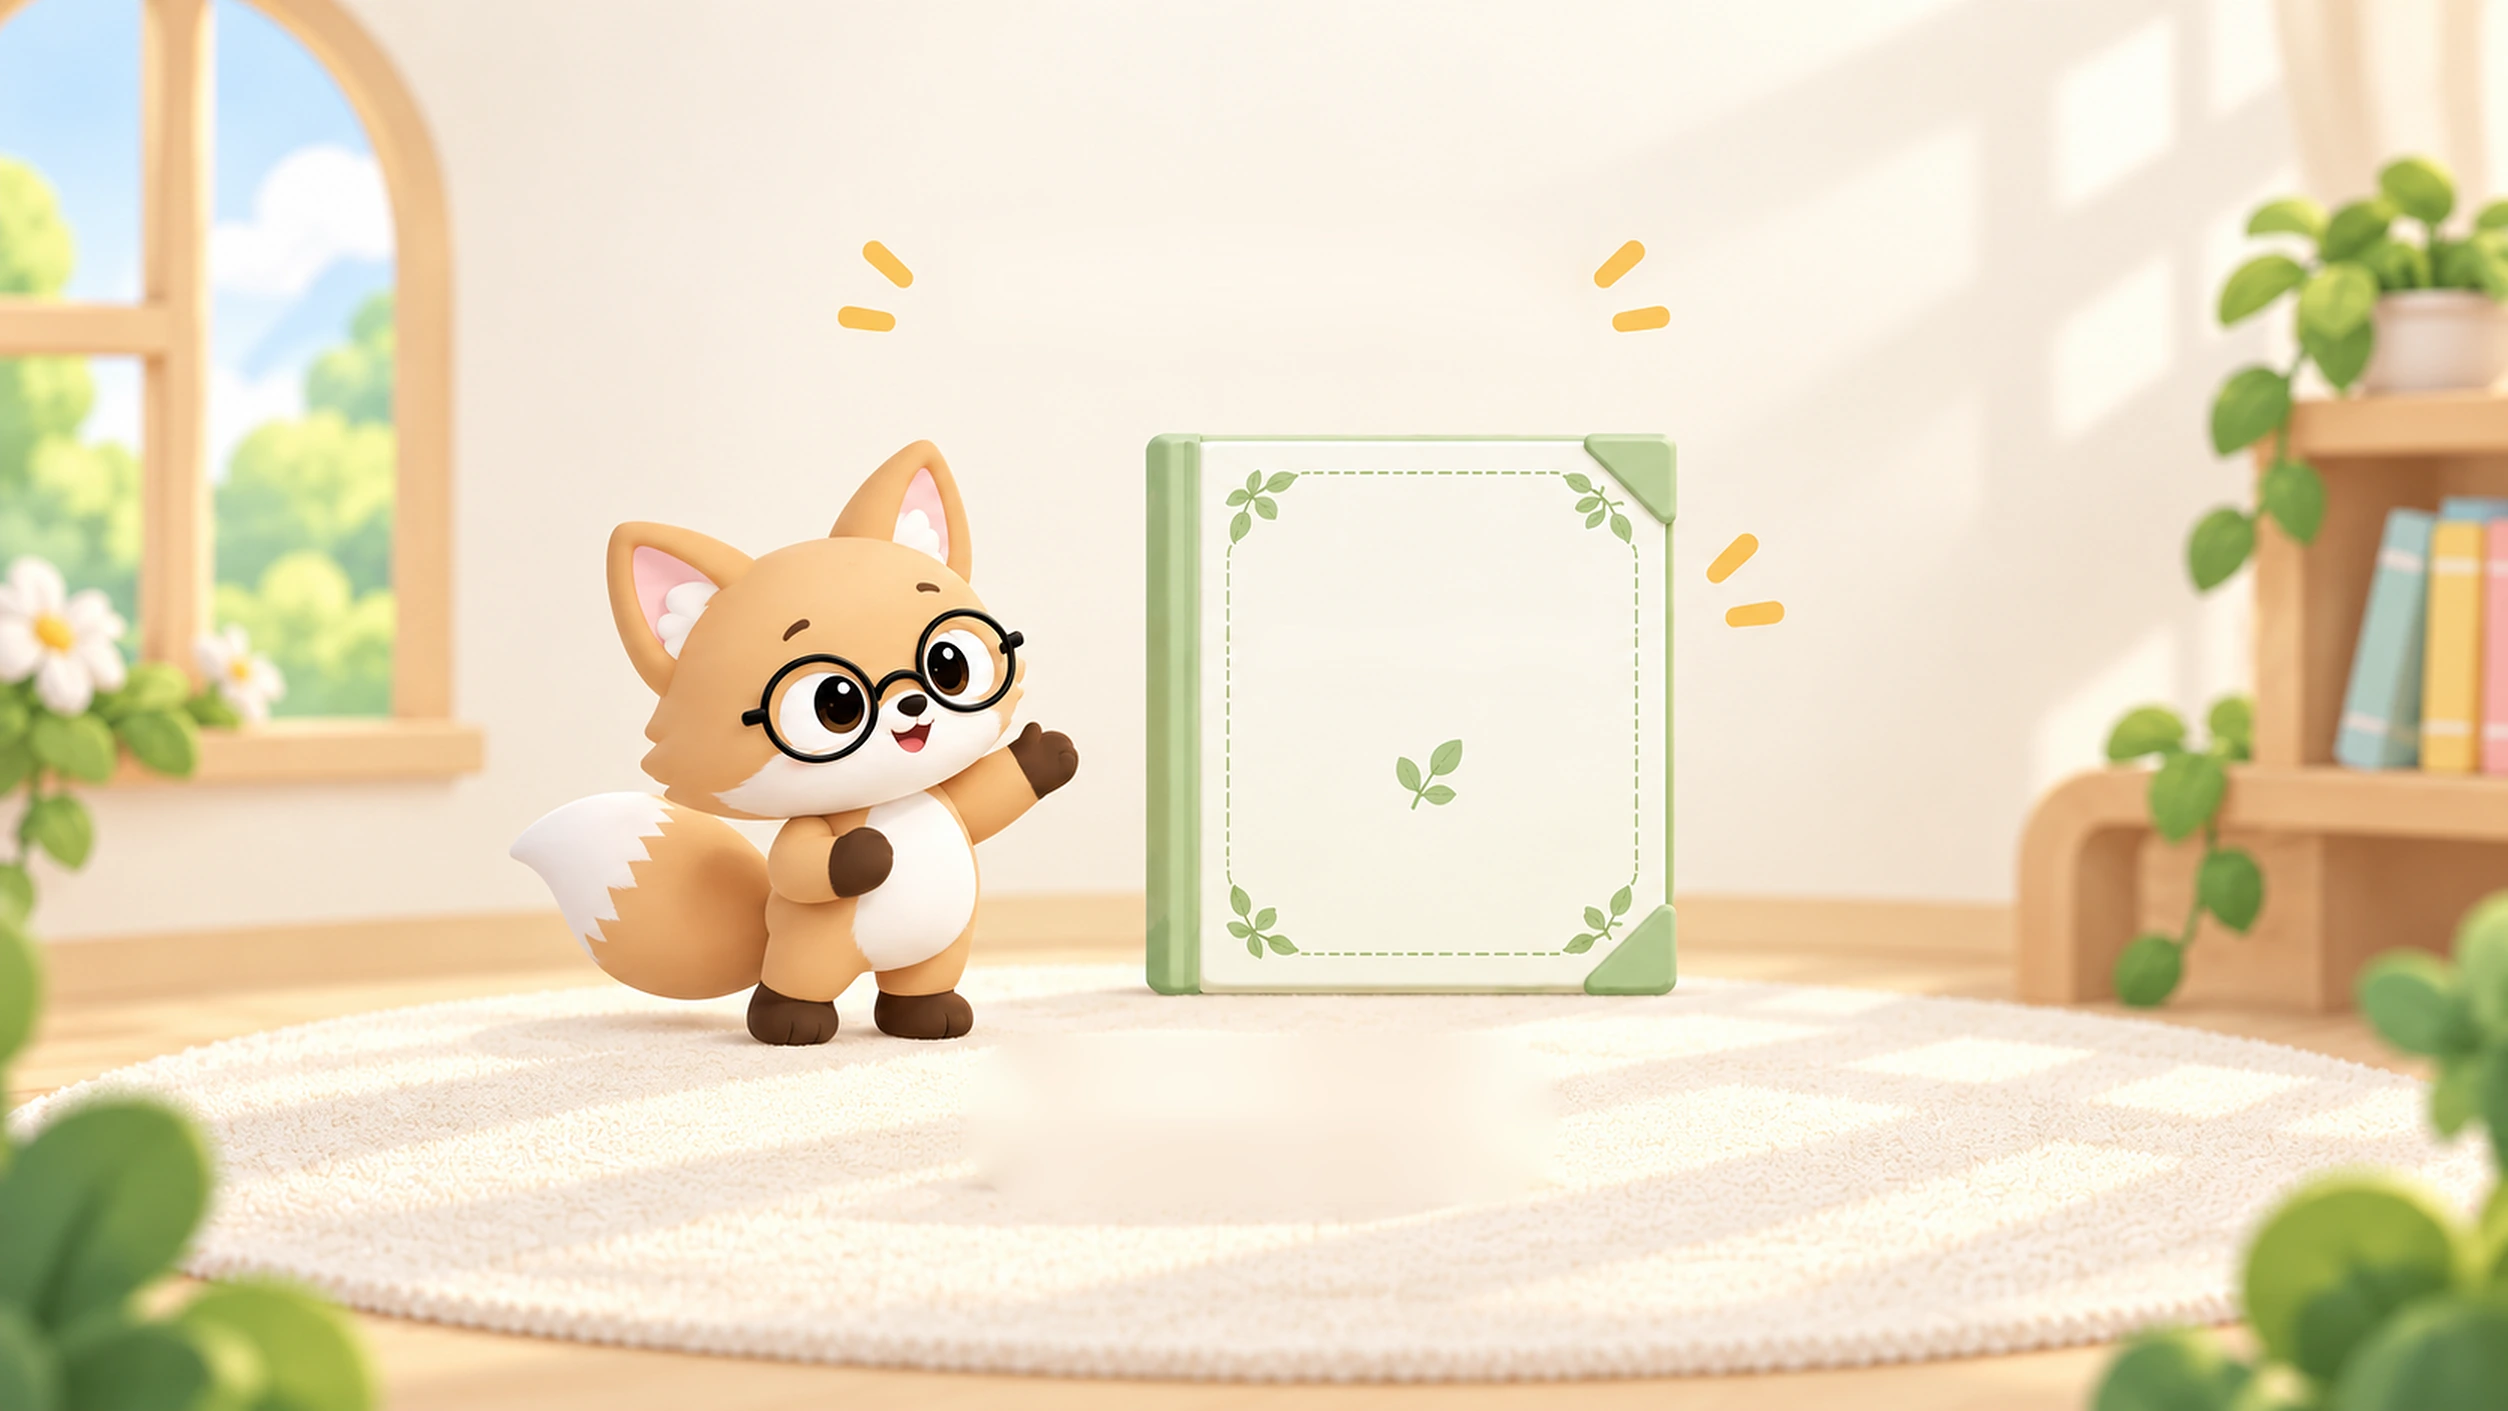
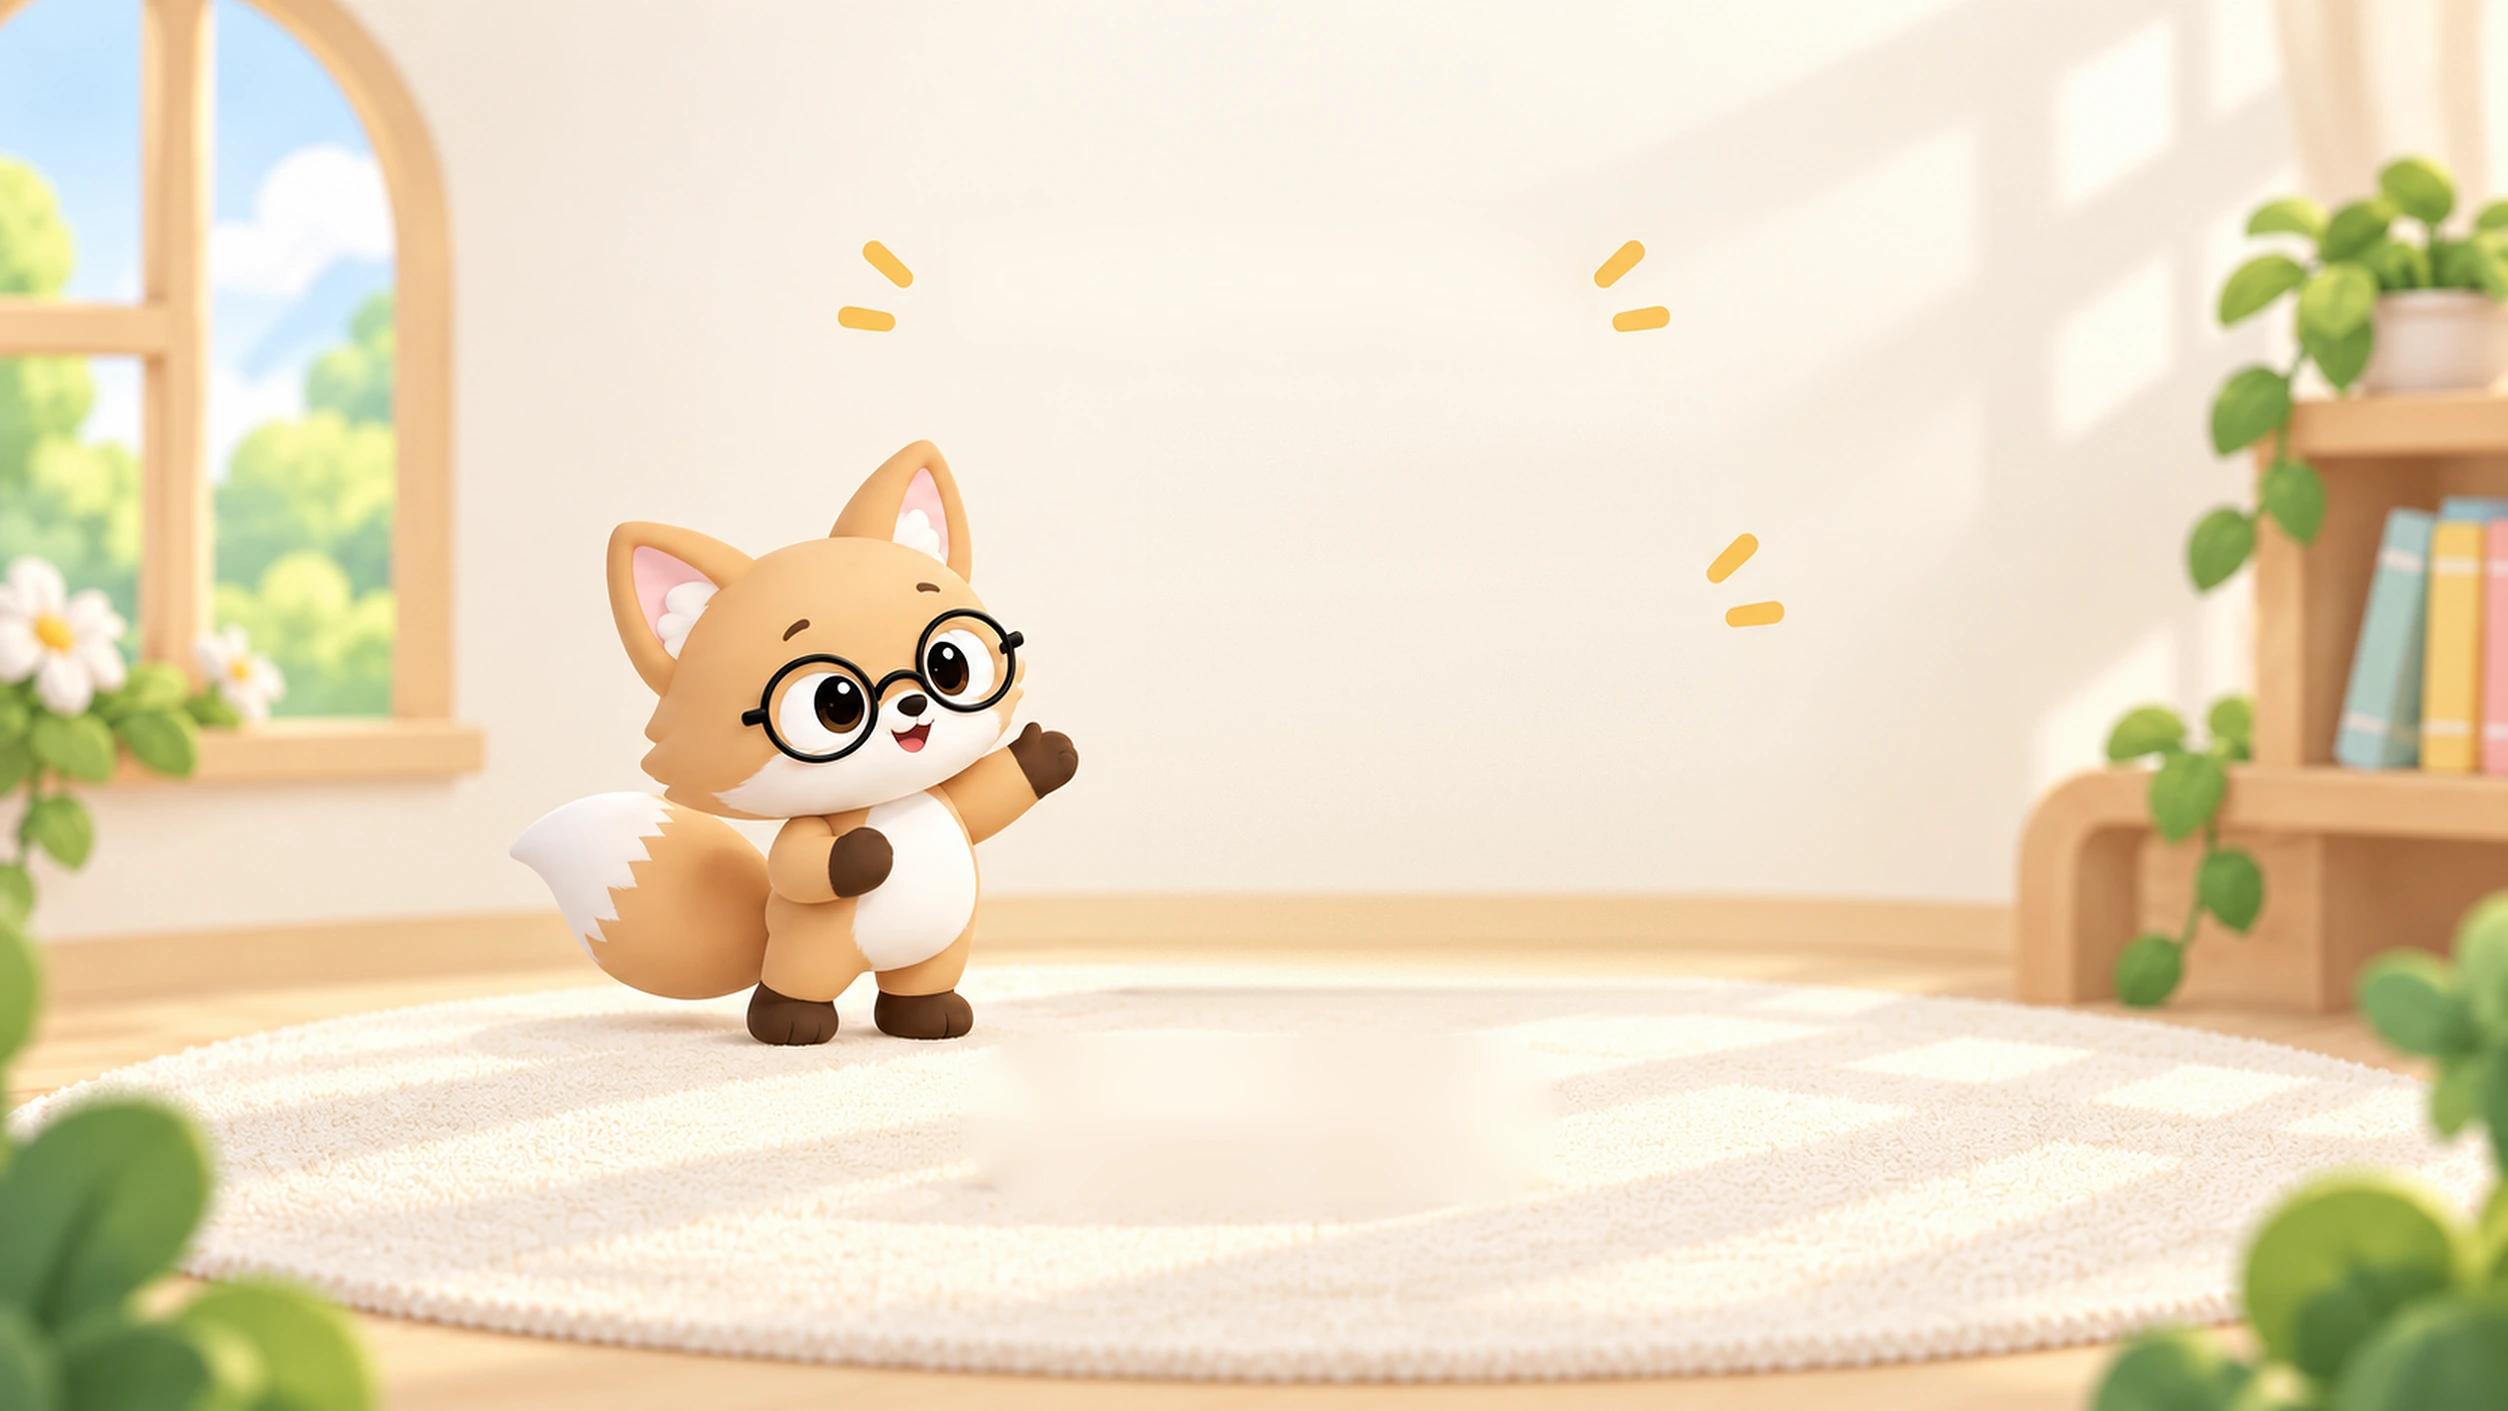
Show the book in its cover color on the study intro
Pick this round's book color when the intro first appears, draw that library book on the intro, and reuse the same color when the book draft starts so the shelved book matches.

Changed region(s): [[0.4354, 0.2807, 0.6842, 0.7172], [0.5598, 0.5301, 0.5909, 0.5925]]

diff --git a/components/study/BookIntro.tsx b/components/study/BookIntro.tsx
@@ -2,17 +2,27 @@
 
 import Image from "next/image";
 import { useEffect, useState } from "react";
+import { ensureRoundTheme, useRoundTheme } from "@/lib/bookDraft";
 
-// 시안 그림(public/study/intro/book-intro.webp, abc 시안에서 문구·책 제목·버튼을 지운 것) 크기.
+// 시안 그림(public/study/intro/book-intro.webp, abc 시안에서 문구·책·버튼을 지운 것) 크기.
 // 선명하게 보이도록 1.5배로 키워 저장했지만 좌표는 시안(1672×941) 기준이다. 문구·제목·버튼은 이 좌표에 붙인다.
 const INTRO_WIDTH = 1672;
 const INTRO_HEIGHT = 941;
 /** "오늘 읽을 책은?" 문구 가운데 (양옆 노란 반짝이는 그림에 남아 있다) */
 const HEADING = { x: 839, y: 189 };
-/** 표지 종이 가운데의 책 제목 자리 */
-const TITLE = { x: 956, y: 430, maxWidth: 250 };
-/** 책(책등 포함)의 가로 자리. 버튼을 책과 같은 폭·같은 가운데로 맞춘다. */
-const BOOK = { x: 764, width: 353 };
+/** 책(책등 포함)이 보이는 가로 자리와 바닥. 버튼을 책과 같은 폭·같은 가운데로 맞춘다. */
+const BOOK = { x: 764, width: 353, bottom: 663 };
+// 책장 표지 그림(public/library/book-<theme>.png, 537×613)은 둘레 5px이 투명 여백이다.
+// 보이는 부분(527×602)이 시안 책 자리에 꼭 맞도록 그림 전체 크기와 위치를 정한다.
+const COVER_SCALE = BOOK.width / 527;
+const COVER = {
+  x: BOOK.x - 5 * COVER_SCALE,
+  y: BOOK.bottom - 607 * COVER_SCALE,
+  width: 537 * COVER_SCALE,
+  height: 613 * COVER_SCALE,
+};
+/** 표지 안쪽 칸 가운데의 책 제목 자리 (표지 그림 기준 %) */
+const TITLE = { left: "52.7%", top: "46%", maxWidth: 250 };
 /** 학습하러 가기 버튼 자리. 가로는 책에 맞추고 세로는 시안 그대로 둔다. */
 const BUTTON = { x: BOOK.x, y: 698, width: BOOK.width, height: 96 };
 
@@ -51,6 +61,9 @@ const artY = (y: number) => `${(y / INTRO_HEIGHT) * 100}%`;
 export default function BookIntro({ title, onDone }: { title: string; onDone: () => void }) {
   const [phase, setPhase] = useState<Phase>("intro");
   const [frame, setFrame] = useState(0);
+  // 이번에 받을 책 표지 색을 여기서 정해 두고, 4단계에서 책을 만들 때 같은 색을 쓴다.
+  const theme = useRoundTheme();
+  useEffect(ensureRoundTheme, []);
 
   useEffect(() => {
     if (phase !== "loading") return;
@@ -97,17 +110,27 @@ export default function BookIntro({ title, onDone }: { title: string; onDone: ()
             >
               오늘 읽을 <span className="text-[#E07A2E]">책</span>은?
             </h2>
-            <p
-              className="absolute -translate-1/2 text-center font-display leading-tight break-keep text-[#4A3426]"
-              style={{
-                left: artX(TITLE.x),
-                top: artY(TITLE.y),
-                width: artPx(TITLE.maxWidth),
-                fontSize: artPx(34),
-              }}
-            >
-              {title}
-            </p>
+            {/* 이번에 받을 색의 책. 색을 정하기 전(첫 화면)에는 비워 두었다가 살짝 나타난다. */}
+            {theme && (
+              <div
+                className="absolute animate-fade-in"
+                style={{
+                  left: artX(COVER.x),
+                  top: artY(COVER.y),
+                  width: artPx(COVER.width),
+                  height: artPx(COVER.height),
+                  filter: `drop-shadow(${artPx(8)} ${artPx(6)} ${artPx(8)} rgba(90,60,30,0.25))`,
+                }}
+              >
+                <Image src={`/library/book-${theme}.png`} alt="" fill sizes="40vw" preload className="select-none" draggable={false} />
+                <p
+                  className="absolute -translate-1/2 text-center font-display leading-tight break-keep text-[#4A3426]"
+                  style={{ left: TITLE.left, top: TITLE.top, width: artPx(TITLE.maxWidth), fontSize: artPx(34) }}
+                >
+                  {title}
+                </p>
+              </div>
+            )}
             <button
               type="button"
               onClick={() => setPhase("loading")}

diff --git a/lib/bookDraft.ts b/lib/bookDraft.ts
@@ -26,6 +26,8 @@ export const DEFAULT_DRAFT_TITLE = "나의 그림책";
 // 탭을 닫았다 다시 와도 이어서 그릴 수 있고, 새로고침해도 표지 색이 다시 뽑히지 않는다.
 const STORAGE_KEY = "yeoul.bookDraft.v1";
 const CHANGE_EVENT = "yeoul:book-draft-change";
+/** 이번 바퀴에 받을 책 표지 색. "오늘 읽을 책은?" 소개에서 먼저 정해 보여 주고, 책을 만들 때 그대로 쓴다. */
+const ROUND_THEME_KEY = "yeoul.bookTheme.v1";
 
 let cachedRaw: string | null = null;
 let cachedDraft: BookDraft | null = null;
@@ -101,15 +103,54 @@ export function readBookDraft(): BookDraft | null {
   return readDraft();
 }
 
+function randomTheme(): BookTheme {
+  return BOOK_THEMES[Math.floor(Math.random() * BOOK_THEMES.length)];
+}
+
+function readRoundTheme(): BookTheme | null {
+  try {
+    const value = window.localStorage.getItem(ROUND_THEME_KEY);
+    return BOOK_THEMES.includes(value as BookTheme) ? (value as BookTheme) : null;
+  } catch {
+    return null;
+  }
+}
+
+/** 이번 바퀴에 받을 책 표지 색 (아직 안 정했거나 서버 렌더면 null) */
+export function useRoundTheme(): BookTheme | null {
+  return useSyncExternalStore(subscribe, readRoundTheme, () => null);
+}
+
+/** 이번 바퀴 책 표지 색을 아직 안 정했으면 무작위로 정한다. 렌더 중이 아니라 effect·이벤트에서 부른다. */
+export function ensureRoundTheme() {
+  if (readRoundTheme()) return;
+  try {
+    window.localStorage.setItem(ROUND_THEME_KEY, randomTheme());
+  } catch {
+    return;
+  }
+  window.dispatchEvent(new Event(CHANGE_EVENT));
+}
+
+/** 한 바퀴를 끝내 다음 책으로 넘어갈 때 지운다. 다음 소개에서 새 색을 뽑는다. */
+export function clearRoundTheme() {
+  try {
+    window.localStorage.removeItem(ROUND_THEME_KEY);
+  } catch {
+    // 저장소를 못 쓰면 지울 것도 없다.
+  }
+  window.dispatchEvent(new Event(CHANGE_EVENT));
+}
+
 /**
- * 새 책을 시작한다. 남아 있던 초안이 있어도 버리고 새로 만든다. 표지 색은 여기서 한 번만 무작위로 고른다.
- * 렌더 중이 아니라 이벤트에서 부른다.
+ * 새 책을 시작한다. 남아 있던 초안이 있어도 버리고 새로 만든다. 표지 색은 소개에서 정해 둔 이번 바퀴 색을 쓰고,
+ * 없으면(소개를 건너뛴 경우) 여기서 한 번만 무작위로 고른다. 렌더 중이 아니라 이벤트에서 부른다.
  */
 export function startBookDraft(title: string): BookDraft {
   const draft: BookDraft = {
     id: newId(),
     title,
-    theme: BOOK_THEMES[Math.floor(Math.random() * BOOK_THEMES.length)],
+    theme: readRoundTheme() ?? randomTheme(),
     startedAt: new Date().toISOString(),
   };
   writeDraft(draft);

diff --git a/lib/studyProgress.ts b/lib/studyProgress.ts
@@ -1,6 +1,7 @@
 "use client";
 
 import { useSyncExternalStore } from "react";
+import { clearRoundTheme } from "./bookDraft";
 import { LESSON_COUNT } from "./studyLessons";
 
 // 학습 지도와 각 단계 페이지를 오가도 어디까지 했는지 기억한다.
@@ -60,6 +61,7 @@ export function resetStudyProgress() {
   } catch {
     // 저장소를 못 쓰면 지울 것도 없다.
   }
+  clearRoundTheme();
   writeCleared(0);
 }
 
